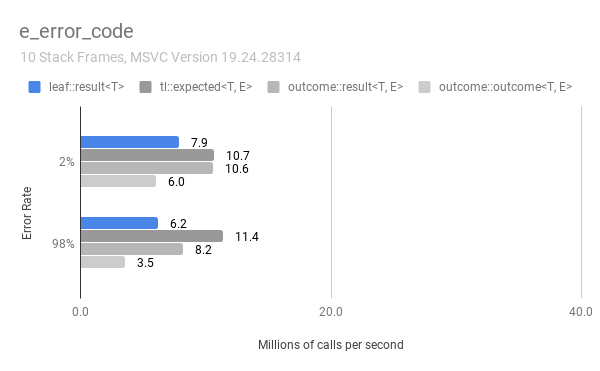
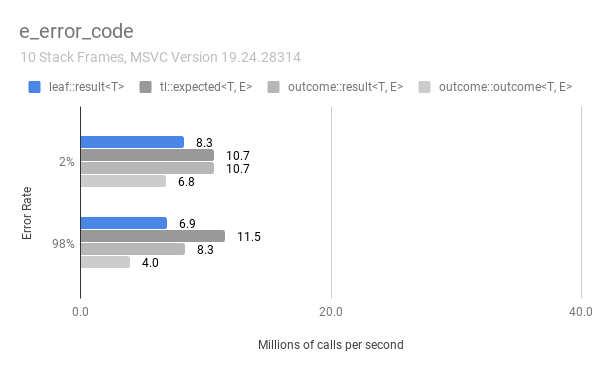
Updated msvc benchmarks (windows)

diff --git a/benchmark/benchmark.md b/benchmark/benchmark.md
@@ -407,33 +407,33 @@ e_heavy_payload | 13289404 | 29785353
 
 Error type      |  2% (μs) | 98% (μs)
 ----------------|---------:|--------:
-e_error_code    |  1273262 |  1616375
-e_system_error  |  1324689 |  2495661
-e_heavy_payload |  1541474 | 13966280
+e_error_code    |  1205327 |  1449117
+e_system_error  |  1290277 |  2332414
+e_heavy_payload |  1503103 | 13682308
 
 `tl::expected<T, E>`:
 
 Error type      |  2% (μs) | 98% (μs)
 ----------------|---------:|--------:
-e_error_code    |   938925 |   876127
-e_system_error  |  1466393 |  8885512
-e_heavy_payload |  2683720 | 49447683
+e_error_code    |   938839 |   867296
+e_system_error  |  1455627 |  8943881
+e_heavy_payload |  2637494 | 49212901
 
 `outcome::result<T, E>`:
 
 Error type      |  2% (μs) | 98% (μs)
 ----------------|---------:|--------:
-e_error_code    |   947551 |  1218935
-e_system_error  |  1335490 |  5200505
-e_heavy_payload | 15528450 | 57321318
+e_error_code    |   935331 |  1202475
+e_system_error  |  1228944 |  2269680
+e_heavy_payload | 15239084 | 55618460
 
 `outcome::outcome<T, E>`:
 
 Error type      |  2% (μs) | 98% (μs)
 ----------------|---------:|--------:
-e_error_code    |  1666200 |  2839445
-e_system_error  |  2146175 |  7304310
-e_heavy_payload | 15781653 | 63170392
+e_error_code    |  1472035 |  2529057
+e_system_error  |  1997971 |  4004965
+e_heavy_payload | 16027423 | 64572924
 
 ## Charts
 
